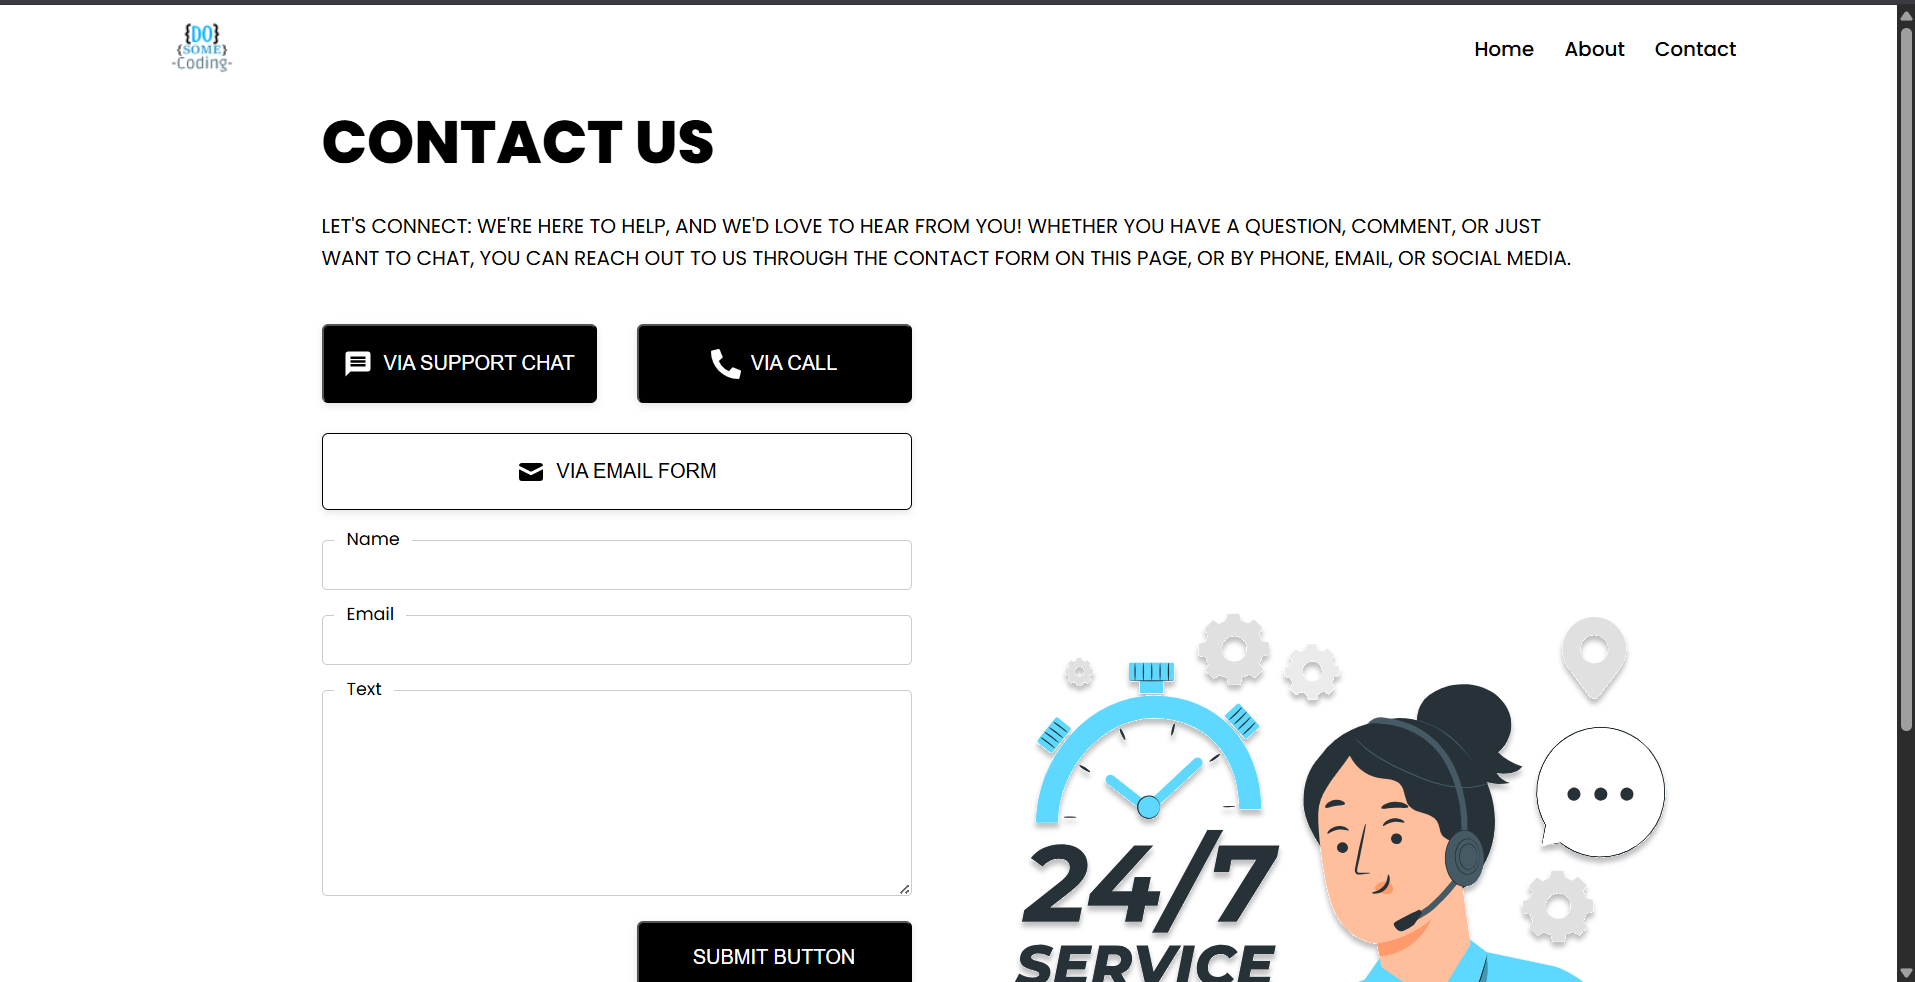
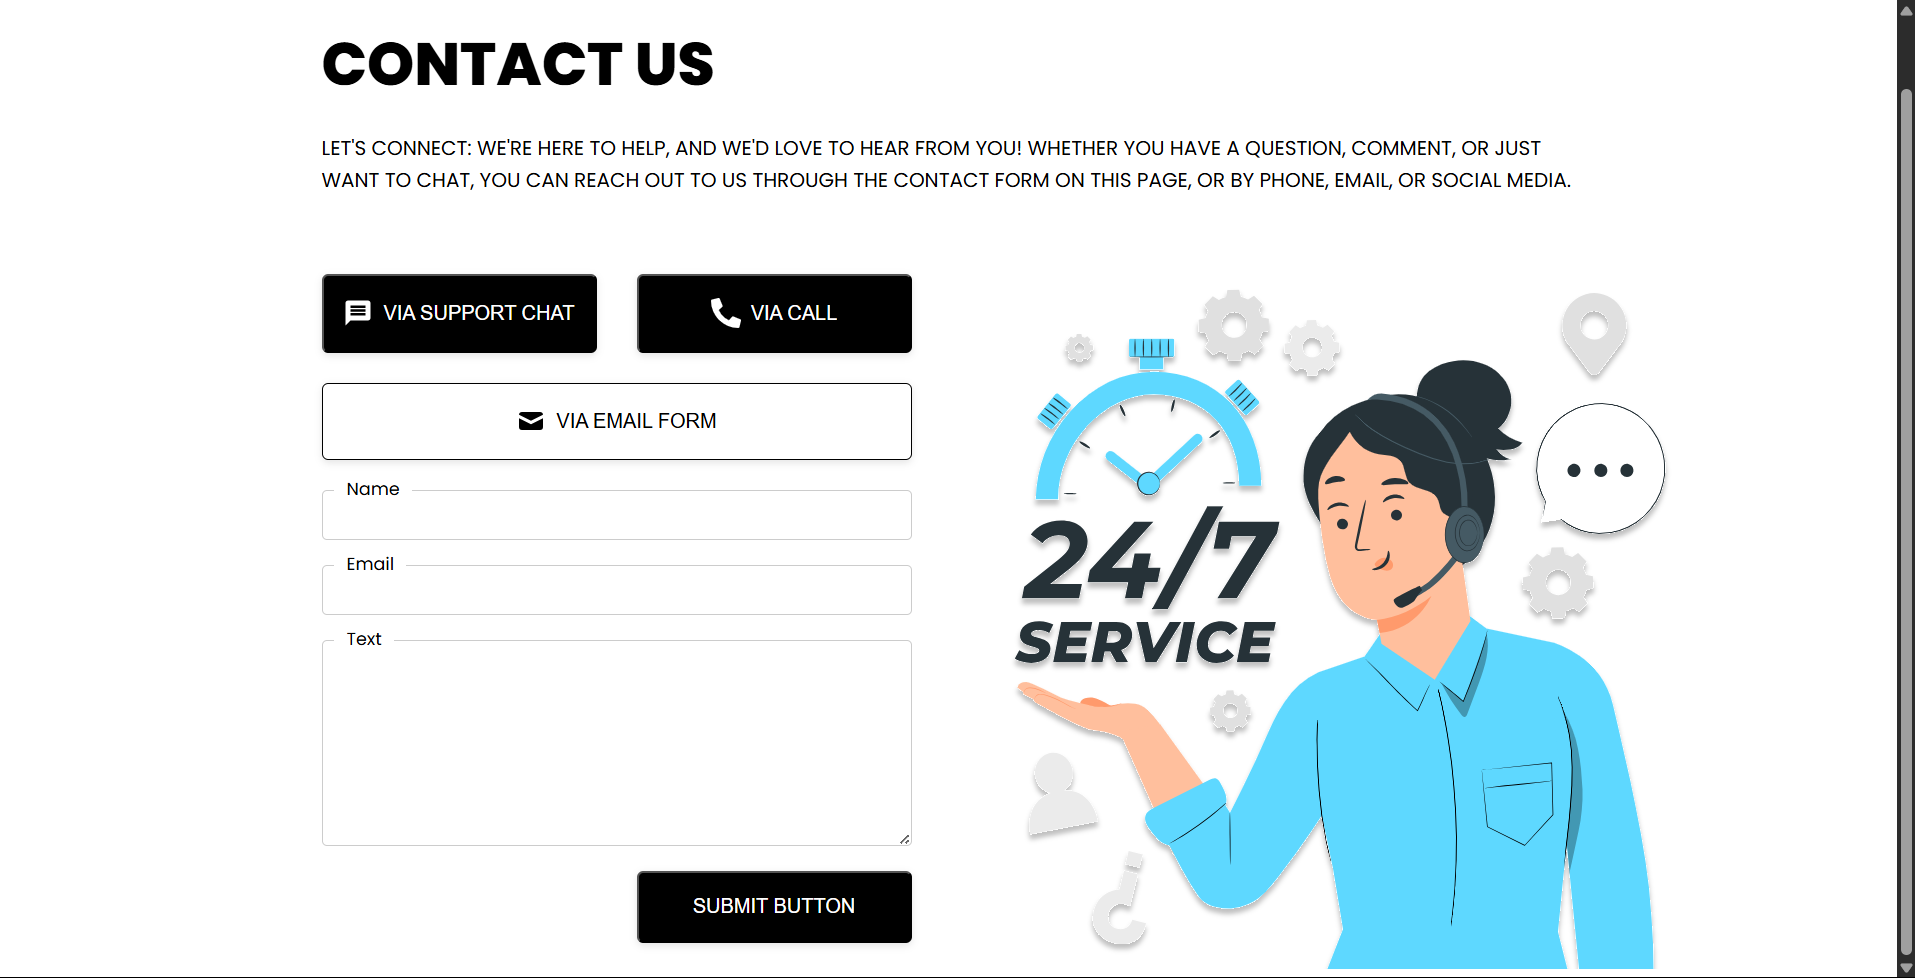
Updated README and image for better look

diff --git a/project-2/README.md b/project-2/README.md
@@ -1,13 +1,12 @@
-# React Contact Form 🚀
+# 🚀 React Contact Form
 
 A simple and responsive contact form built using **ReactJS**.  
-This project shows how to handle forms, state, and submission in React.
+This project shows how to handle forms, state, and submissions in React.
 
 ---
 
 ## 📸 Screenshot
-
-![![alt text](image.png)](./public/images/contact.svg)
+![alt text](image.png)
 
 ---
 
@@ -18,16 +17,21 @@ This project shows how to handle forms, state, and submission in React.
 - 🎨 Clean and modern CSS styling
 - 📞 Multiple contact options (Chat, Call, Email)
 
+---
+
 ## 🚀 Getting Started
 
-1⃣ Clone this repository:
+### 1⃣ Clone this repository
+
 ```bash
-git clone then link..
-2⃣ Install dependencies:
-```bash
+git clone https://github.com/AnshCyberSec/react-contact-form.git
+
+2⃣ Install dependencies
+
 npm install
-3⃣ Run the project:
-```
+
+3⃣ Run the project
+
 npm run dev
 
 📃 License
